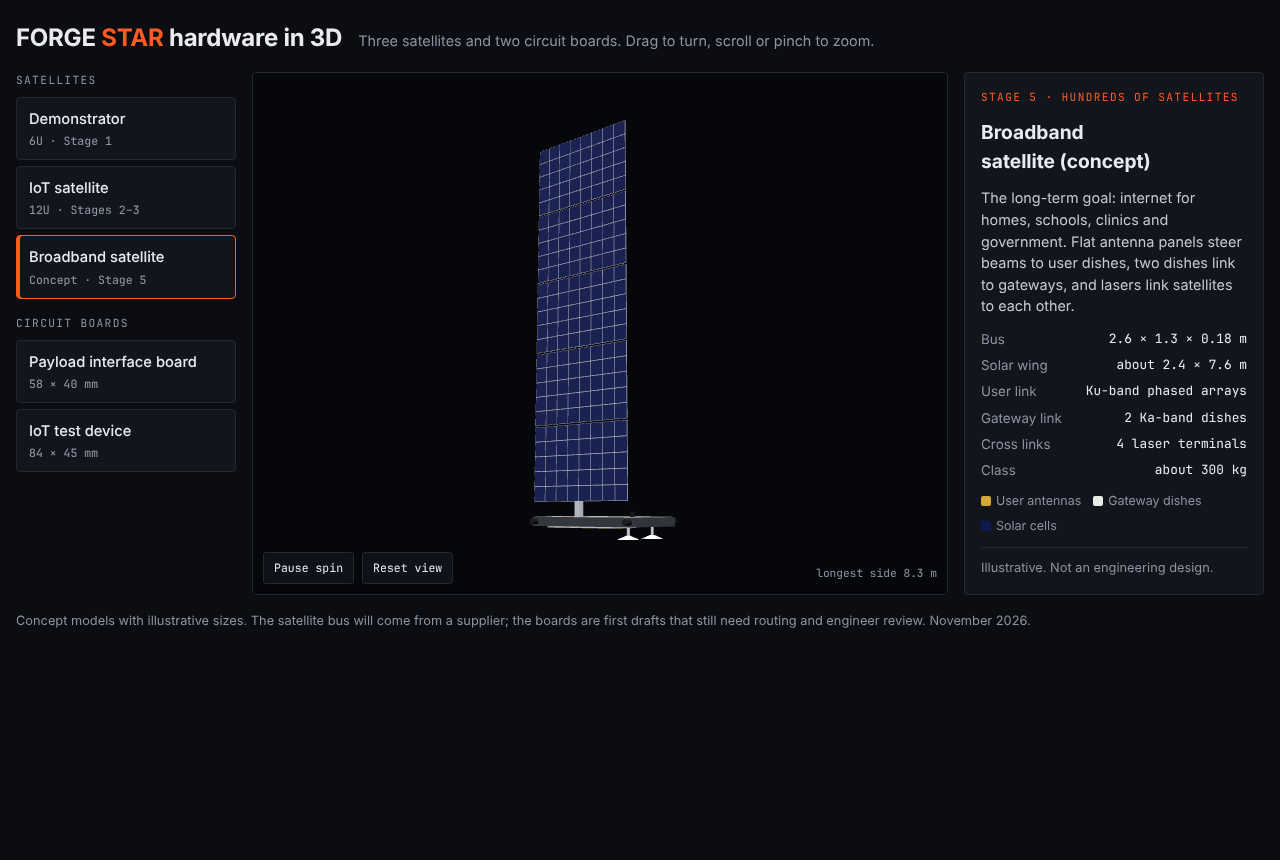
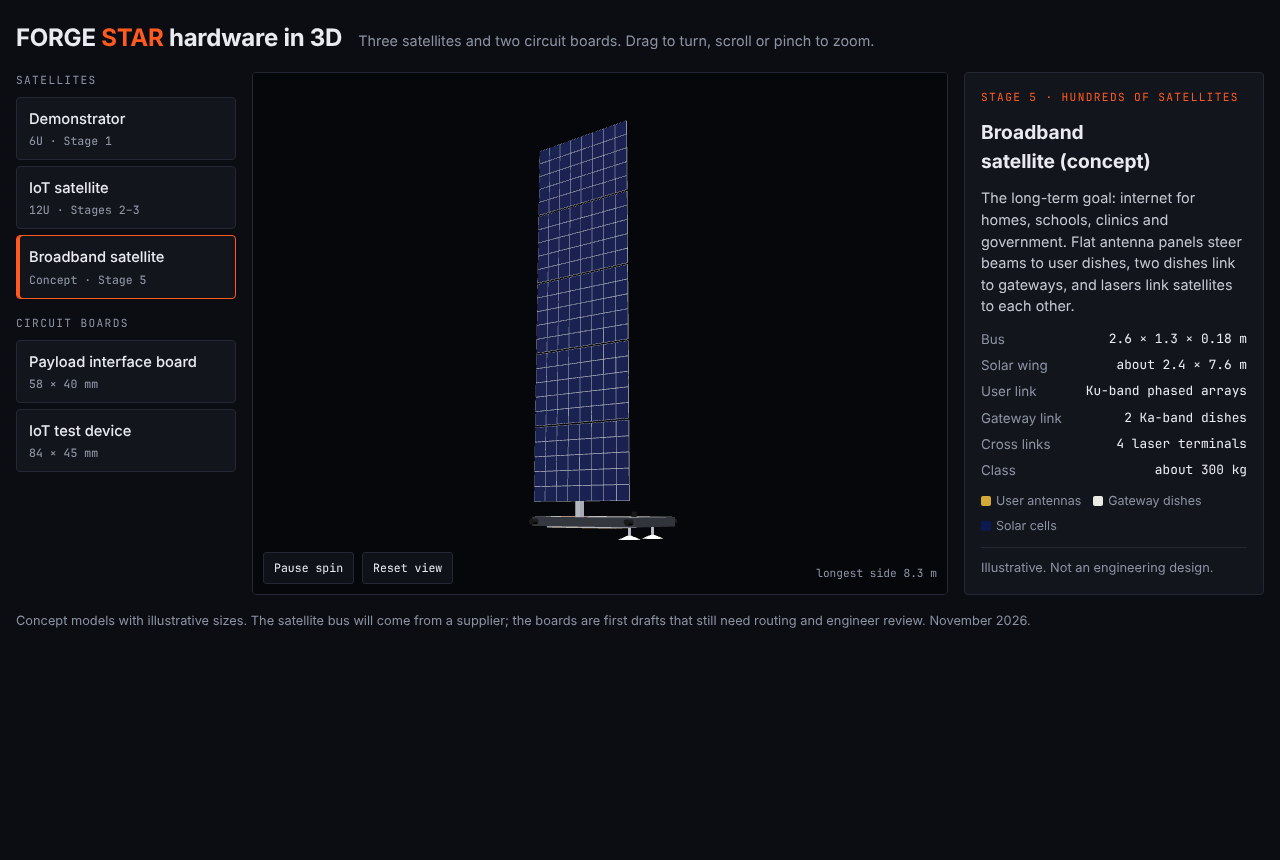
3D viewer: load models as JSON; refresh pictures
Claude-Session: https://claude.ai/code/session_015CMiJLEK2awr8jj4iMRjxR

Changed region(s): [[0.4062, 0.1512, 0.5, 0.5744]]

diff --git a/hardware/3d/viewer.html b/hardware/3d/viewer.html
@@ -87,7 +87,7 @@ const MODELS=[
   key:[]}
 ];
 const stage=document.getElementById("stage"),msg=document.getElementById("msg"),nav=document.getElementById("nav"),plate=document.getElementById("plate"),scaleEl=document.getElementById("scale");
-let renderer,scene,camera,controls,current=null,home=null;
+let renderer,scene,camera,controls,current=null,home=null,want=null;
 function esc(s){return String(s).replace(/[&<>"]/g,c=>({"&":"&amp;","<":"&lt;",">":"&gt;",'"':"&quot;"}[c]))}
 function buildNav(){
   let g="";
@@ -130,12 +130,17 @@ function frame(obj,unit,view){
 }
 function show(id){
   const m=MODELS.find(x=>x.id===id)||MODELS[1];showPlate(m);if(!renderer)return;
-  msg.hidden=false;msg.textContent="Loading model…";
-  new THREE.GLTFLoader().load("models/"+m.file,g=>{
+  want=m.id;msg.hidden=false;msg.textContent="Loading model…";
+  const fail=()=>{msg.hidden=false;msg.textContent="Could not load this model."};
+  fetch("models/"+m.file.replace(".glb",".json")).then(r=>r.json()).then(j=>{
+    const bin=atob(j.glb),buf=new Uint8Array(bin.length);for(let i=0;i<bin.length;i++)buf[i]=bin.charCodeAt(i);
+    if(want!==m.id)return;
+    new THREE.GLTFLoader().parse(buf.buffer,"",g=>{
     if(current)scene.remove(current);current=g.scene;
     current.traverse(o=>{if(o.isMesh&&o.material){o.material.side=THREE.DoubleSide;if(o.material.metalness!==undefined){o.material.metalness=Math.min(o.material.metalness,0.35);o.material.roughness=Math.max(o.material.roughness,0.55)}}});
     scene.add(current);frame(current,m.unit,m.view);msg.hidden=true;
-  },undefined,()=>{msg.textContent="Could not load this model."});
+    },fail);
+  }).catch(fail);
 }
 buildNav();
 if(init()){
